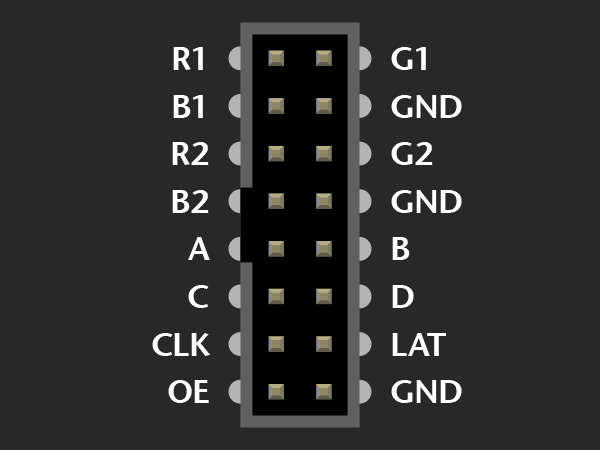
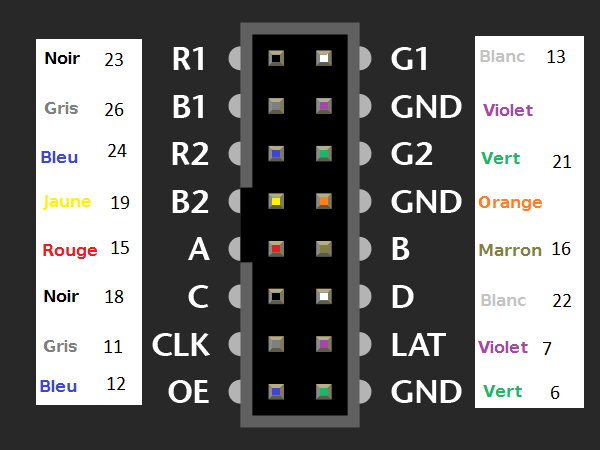
Ajout numero pin

diff --git a/Synthese.md b/Synthese.md
@@ -95,7 +95,7 @@ Au dos de la matrice, il y a deux connecteurs de pin (INPUT à gauche,
 OUTPUT à droite). Nous n'utiliserons pas le connecteur OUTPUT qui sert
 dans les cas où l'on veut brancher plusieurs matrices de leds en parallèle.
 
-Un connecteur possède 16 pins qui devront être reliés à la Raspberry Pi. Sa disposition est présentée en FIG. \ref{pins}.
+Un connecteur possède 16 pins qui devront être reliés à la Raspberry Pi. Sa disposition est présentée en FIG. \ref{pins}, elle est annotée des numéros de pins de la raspberry Pi auxquels les pins du connecteur devront être reliés.
 
 ![Disposition des pins\label{pins}](assets/Disposition_pins.png){ width=50% }
 
